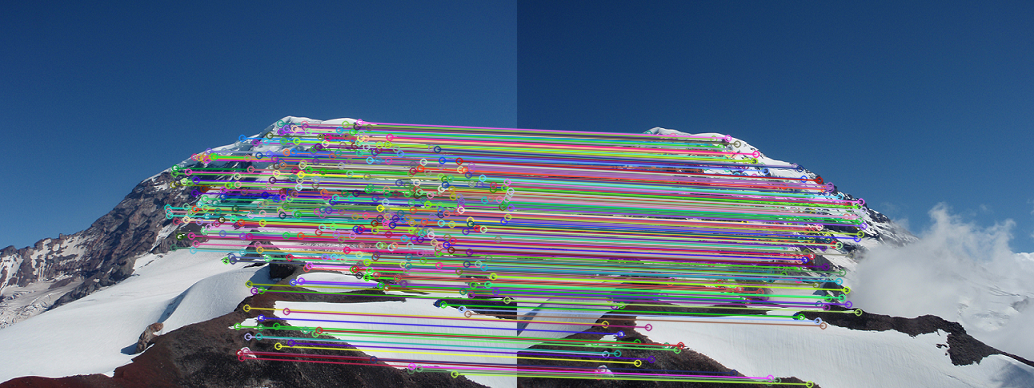
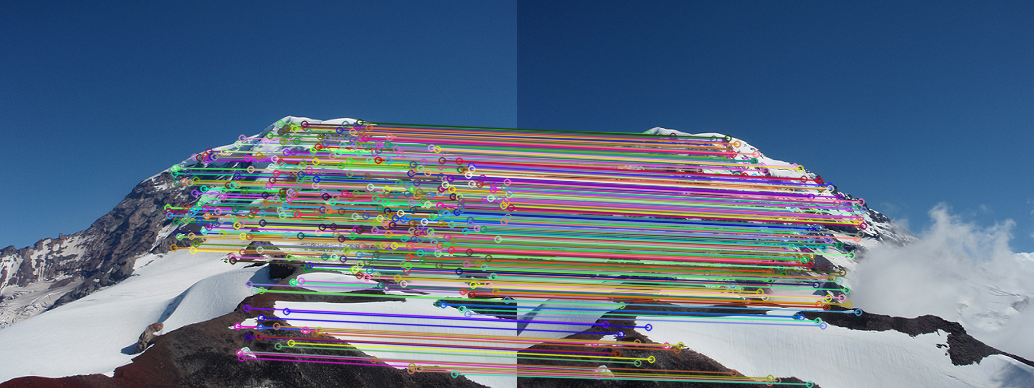
stitch done
image stitching is done. tried not to hard code it as best I can. I think I did well.

I still have that pesky runtime error to deal with in project().

Still need to write the readme file.

Changed region(s): [[0.1547, 0.3093, 0.8356, 1.0]]

diff --git a/panorama.py b/panorama.py
@@ -10,23 +10,19 @@ IMG_1_PATH = "project_images/Rainier1.png"
 IMG_2_PATH = "project_images/Rainier2.png"
 RESULTS_DIR = "results/"
 
-#utility function to show an image and wait for key press
+ITERATIONS = 1000
+THRESHOLD = 0.995
+
+DEBUG_MODE = False
+
+
+#Utility function to show an image and wait for key press
 def showImg(title, img):
 	cv.imshow(title, img)
 	cv.waitKey(0)
 
 
-#Builds a list of keypoint objects from a list of dMatch objects
-#dMatch only contains keypoint indices; they do not contain information like x, y, z position
-def buildMatchList(dMatchList, kpList1, kpList2):
-	matches = []
-
-	for dm in dMatchList:
-		matches.append((kpList1[dm.queryIdx],kpList2[dm.trainIdx]))
-
-	return matches
-
-#Uses openCV's ORB implementation to get keypoints and make their descriptors
+#Uses openCV's SIFT implementation to get keypoints and make their descriptors
 def findFeatures(img, save, debug = False):
 	gray = cv.cvtColor(img, cv.COLOR_BGR2GRAY)
 
@@ -35,7 +31,7 @@ def findFeatures(img, save, debug = False):
 
 	keypoints, descriptors = sift.detectAndCompute(gray, None)
 
-	result = cv.drawKeypoints(img, keypoints, None, color=(0,255,0), flags=0)
+	result = cv.drawKeypoints(img, keypoints, None, color=(0,255,0), flags = 0)
 
 	if debug:
 		showImg("Keypoints", result)
@@ -64,7 +60,7 @@ def findMatches(img1, img2, debug = False):
 			goodMatches.append(matches[i][0])
 
 
-	resultImg = cv.drawMatches(img1, kp1, img2, kp2, goodMatches, None)
+	resultImg = cv.drawMatches(img1, kp1, img2, kp2, goodMatches, None, flags = 2)
 
 	if debug:
 		showImg("Matches", resultImg)
@@ -74,9 +70,8 @@ def findMatches(img1, img2, debug = False):
 	return goodMatches, kp1, kp2
 
 
-#From pdf:
-# Projects point (x1, y1) using the homography H. 
-# Returns the projected point newP (x2, y2)
+#Projects point (x1, y1) using the homography H. 
+#Returns the projected point newP (x2, y2)
 def project(x1, y1, H):
 	#h = [ a b c 
 	#	   d e f
@@ -88,35 +83,23 @@ def project(x1, y1, H):
 	# x2 = u / w
 	# y2 = v / w
 
-	newP = np.matmul(H, (x1, y1, 1))
+	newP = np.matmul(H, (x1, y1, 1))	#Oddly, some times I get a runtime error here (program still completes). I have yet to find the cause...
 
+	#some times, I get w = 0 :\
+	if newP[2] == 0:
+		return newP[0], newP[1]
 
 	return (newP[0] / newP[2]), (newP[1] / newP[2])
 
 
 #From pdf:
-# computes the number of inlying points given a homography "H". 
-# That is, project the first point in each match using the function "project". 
-# If the projected point is less than the distance "inlierThreshold" from the second point, it is an inlier. 
-# Returns the total number of inliers.
-def computeInlierCount(H, matches, inlierThreshold, keypoints1, keypoints2):
-	inliers = 0
-
-	for m in matches:
-		projection = project(keypoints1[m.queryIdx].pt[0], keypoints1[m.queryIdx].pt[1], H)
-		distSq = (projection[0] - keypoints2[m.trainIdx].pt[0])**2 + (projection[1] - keypoints2[m.trainIdx].pt[1])**2 
-
-		if distSq < inlierThreshold:
-			inliers += 1
-
-	return inliers
-
-
-def showInliers(img1, img2, H, matches, inlierThreshold):
-	return 0;
-
-#Nearly identical to computeInliercount, but returns a list of inliers instead of a count. Perhaps make the previous return the list and just use len()...
-def findInliers(matches, H, inlierThreshold, keypoints1, keypoints2):
+#	computes the number of inlying points given a homography "H". 
+#	That is, project the first point in each match using the function "project". 
+#	If the projected point is less than the distance "inlierThreshold" from the second point, it is an inlier. 
+#	Returns the total number of inliers.
+#
+# NOTE: I modified this so it always returns a list of inliers. I just use len() afterwards to get the total.
+def computeInliers(H, matches, inlierThreshold, keypoints1, keypoints2):
 	inliers = []
 
 	for m in matches:
@@ -128,14 +111,15 @@ def findInliers(matches, H, inlierThreshold, keypoints1, keypoints2):
 
 	return inliers
 
-# takes a list of potentially matching points between two images 
-# returns the homography transformation and its inverse. 
+
+#Takes a list of potentially matching points between two images.
+#Returns the homography transformation and its inverse. 
 def RANSAC (matches, numIterations, inlierThreshold, img1, img2, keypoints1, keypoints2, debug = False):
 	bestH = np.zeros((3,3))
 
 	numMatches = len(matches)
 
-	inliersMax = 0
+	maxInliers = 0
 
 	#for each iteration
 	#	select 4 random matches
@@ -151,20 +135,20 @@ def RANSAC (matches, numIterations, inlierThreshold, img1, img2, keypoints1, key
 
 		for i in range(sampleSize):
 			idx = random.randint(0, numMatches-1)
-			src[i] = keypoints1[matches[idx].queryIdx].pt
+			src[i] = keypoints1[matches[idx].queryIdx].pt  	#matches act as a list of pointers to keypoints
 			dst[i] = keypoints2[matches[idx].trainIdx].pt
 
 		currH = cv.findHomography(src, dst, 0)[0]
-		currInliers = computeInlierCount(currH, matches, inlierThreshold, keypoints1, keypoints2)
+		currInliers = len(computeInliers(currH, matches, inlierThreshold, keypoints1, keypoints2))
 
-		if currInliers > inliersMax:
+		if currInliers > maxInliers:
 			bestH = currH
-			inliersMax = currInliers
+			maxInliers = currInliers
 
 	#After iterations:
 	#find matches that are inliers using the "best" homography and the specified threshold
 	#compute another homography with all of the inliers (not just 4 points)
-	inliers = findInliers(matches, bestH, inlierThreshold, keypoints1, keypoints2)
+	inliers = computeInliers(bestH, matches, inlierThreshold, keypoints1, keypoints2)
 
 	src = np.array([keypoints1[i.queryIdx].pt for i in inliers])	#is this what people call "pythonic" code?
 	dst = np.array([keypoints2[i.trainIdx].pt for i in inliers])
@@ -182,63 +166,75 @@ def RANSAC (matches, numIterations, inlierThreshold, img1, img2, keypoints1, key
 	return bestH, np.linalg.inv(bestH)
 
 
-# Stitches the images together using H and its inverse to produce the panorama
+#Stitches the images together using H and its inverse to produce the panorama
 def stitch(img1, img2, hom, homInv):
 	sitchImg = 0
 
-	#first, compute the size of the panorama. Project the corners of img2 on img1 with inverse of H. Allocate memory for the panorama.
+	#First, compute the size of the panorama. Project the corners of img2 on img1 with inverse of H. Allocate memory for the panorama.
 	img1Height = img1.shape[0]
 	img1Width = img1.shape[1]
 
 	img2Height = img2.shape[0]
 	img2Width = img2.shape[1]
 
+	#Getting the four corners of the projection of image 2 onto image 1
 	topLeft = project(0, 0, homInv)
 	topRight = project(img2Width, 0, homInv)
 	bottomLeft = project(0, img2Height, homInv)
 	bottomRight = project(img2Width, img2Height, homInv)
 
-	panoTop = min(topLeft[1], topRight[1])
+	#Panorama sides relative to image 1
+	panoTop = min(topLeft[1], topRight[1], 0)
 	panoBottom = max(bottomLeft[1], bottomRight[1], img1Height)
 	panoLeft = min(topLeft[0], bottomLeft[0], 0)
-	panoRight = max(topRight[0], bottomRight[0])
+	panoRight = max(topRight[0], bottomRight[0], img1Width)
 
 	panoWidth = math.ceil(abs(panoLeft) + abs(panoRight))
 	panoHeight = math.ceil(abs(panoTop) + abs(panoBottom))
 
-	stitchImg = np.zeros((panoHeight, panoWidth, 3), np.uint8)
+	stitchImg = np.zeros((panoHeight, panoWidth, 3), np.uint8)	#always mind the type!
 
-	#second, copy img1 onto the panorama
-	xDiff = int(0 - panoLeft)
-	yDiff = int(0 - panoTop)
-	
+	#Second, copy img1 onto the panorama
+	xOffset = math.ceil(0 - panoLeft)
+	yOffset = math.ceil(0 - panoTop)
+
+	#Perhaps theres a better way to copy an image onto another...These are just numpy arrays after all. For now this will do fine.
 	for y in range(img1Height):
 		for x in range(img1Width):
-			stitchImg[y+yDiff][x+xDiff] = img1[y][x]
+			stitchImg[y+yOffset][x+xOffset] = img1[y][x]
 
-	#third, for every pixel p in the panorama, project p onto img2. If it's correctly inside img2, blend the pixel values of img2 and panorama.
+
+	#Third, for every pixel p in the panorama, project p onto img2. If it's correctly inside img2, blend the pixel values of img2 and panorama.
 	#	protip: use bilinear interpolation to get pixel values of img2 -> cv.getRectSubPix(image, patchSize, center[, patch[, patchType]]
-	
+	for y in range(panoHeight):
+		for x in range(panoWidth):
+			xp, yp = project(x-xOffset, y-yOffset, hom)
+
+			if xp < img2Width and xp >= 0 and yp < img2Height and yp >= 0:
+				stitchImg[y][x] = cv.getRectSubPix(img2, (1,1), (xp, yp))		#making use of getRectSubPix's interpolation to fetch single pixels at floating point values
+
+	cv.imwrite(RESULTS_DIR + "4.png", stitchImg)
+
+	return stitchImg
+
 
 def main():
 	img1 = cv.imread(IMG_1_PATH)
 	img2 = cv.imread(IMG_2_PATH)
 
-	debug = False
-	iterations = 100
-	threshold = 1
-
 	#Mandatory step 1: find features of boxes, save in 1a.png
-	findFeatures(cv.imread("project_images/Boxes.png"), RESULTS_DIR + "1a.png", debug)
+	findFeatures(cv.imread("project_images/Boxes.png"), RESULTS_DIR + "1a.png", DEBUG_MODE)
 
-	#Mandatory step 2: find features of mount rainier 1, save in 1b.png
-	#Mandatory step 3: find features of mount rainier 2, save in 1c.png
-	matches, kp1, kp2 = findMatches(img1, img2, debug)
+	#Mandatory step 2: find features of mount rainier 1, save in 1b.png. Find features of mount rainier 2, save in 1c.png
+	matches, kp1, kp2 = findMatches(img1, img2, DEBUG_MODE)
 
-	h, hInv = RANSAC(matches, iterations, threshold, img1, img2, kp1, kp2, debug)
+	#Mandatory step 3: compute the homography using RANSAC
+	h, hInv = RANSAC(matches, ITERATIONS, THRESHOLD, img1, img2, kp1, kp2, DEBUG_MODE)
 
-	stitch(img1, img2, h, hInv)
+	#Mandatory step 4: stitch the images together
+	panorama = stitch(img1, img2, h, hInv)
 
+	showImg("Panorama", panorama)
 	cv.destroyAllWindows()
 
 if __name__ == '__main__':
